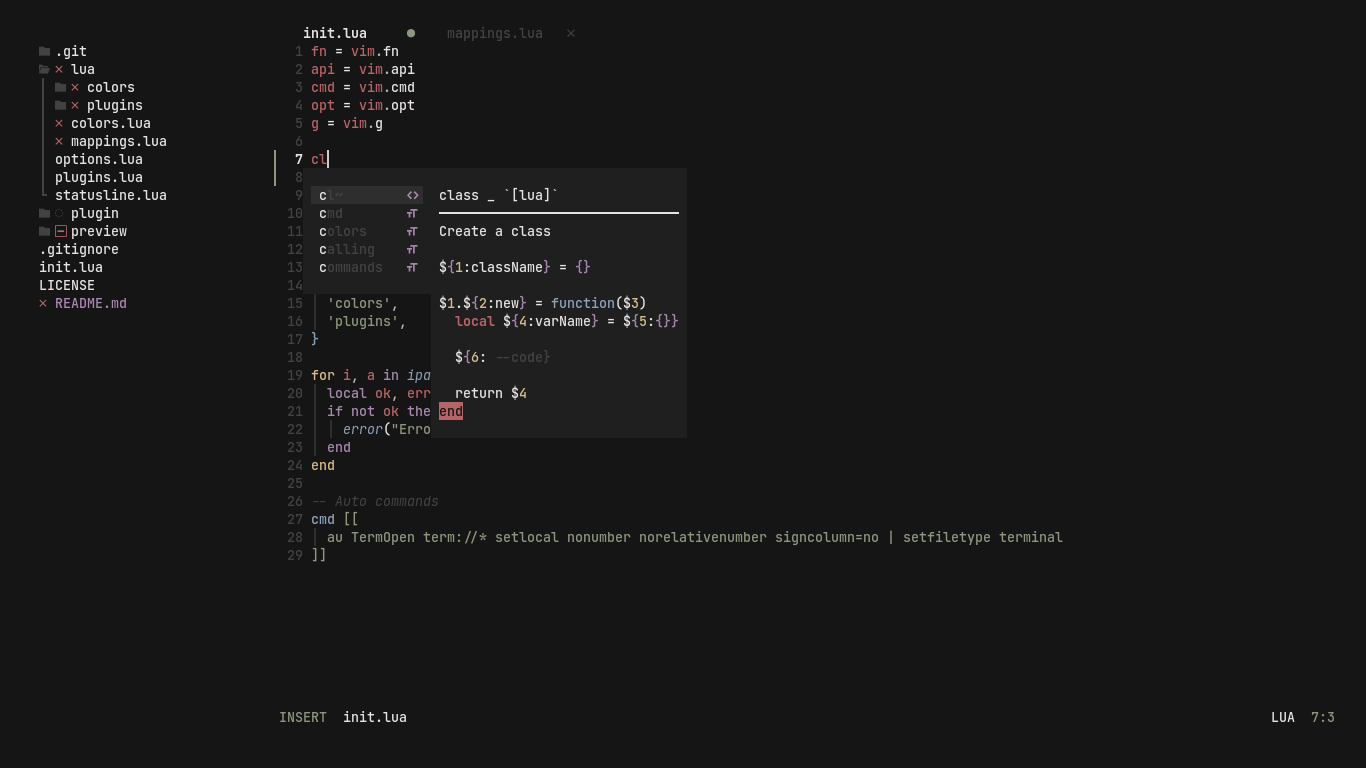
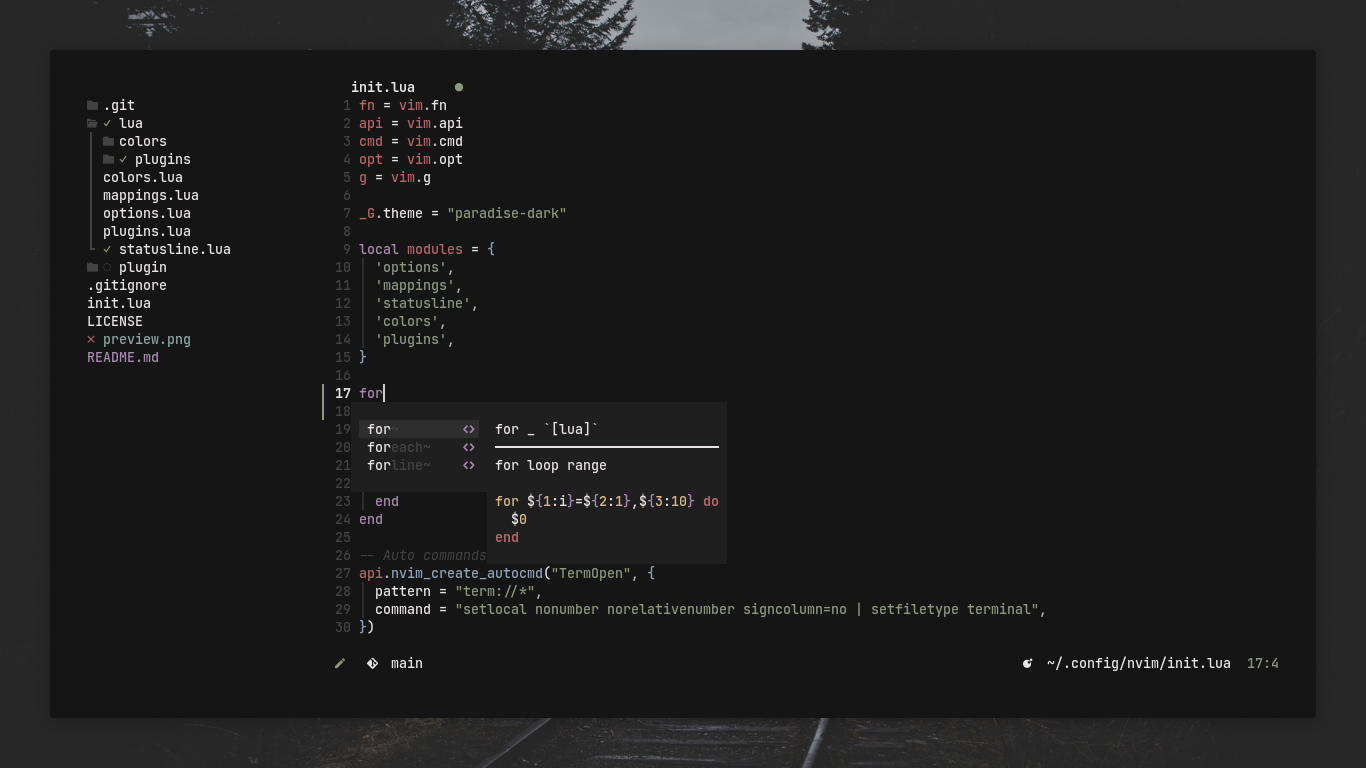
statusline

diff --git a/README.md b/README.md
@@ -7,7 +7,7 @@
   <img src="https://img.shields.io/static/v1?label=license&message=MIT&color=8DA3B9&labelColor=151515&style=for-the-badge">
 </p>
 
-## ShowCase
+## Showcase
 
 ![](./preview.png) 
 
